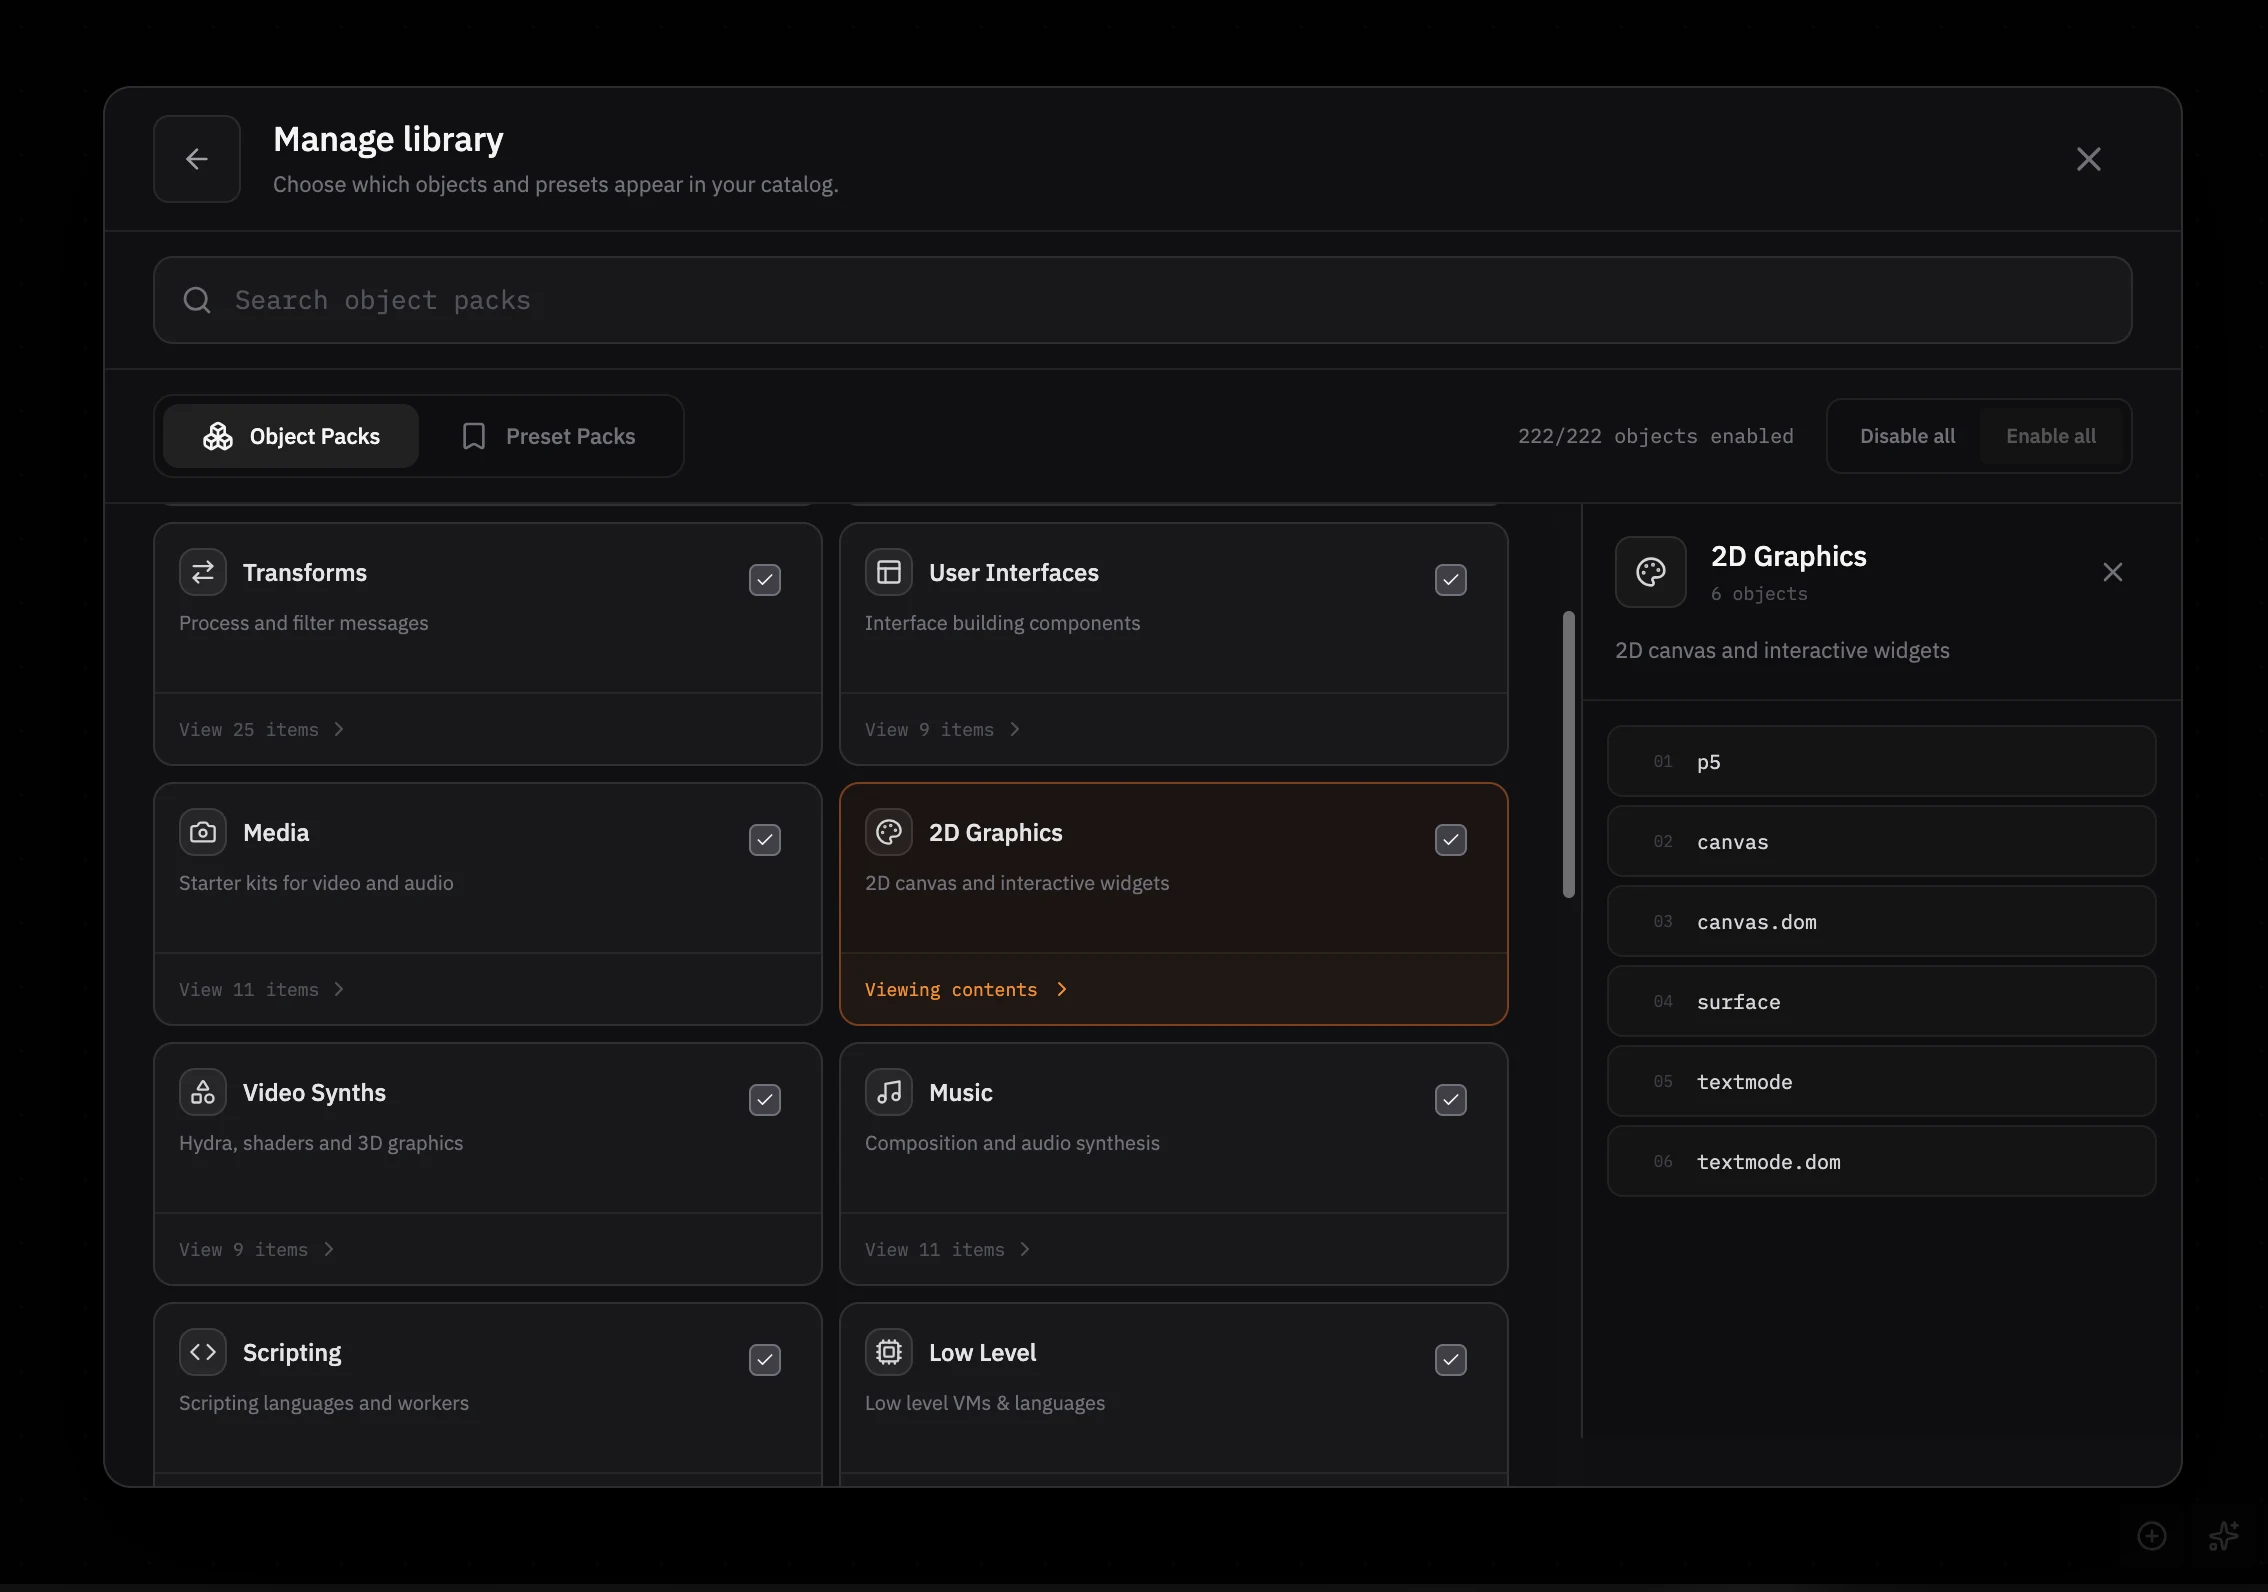
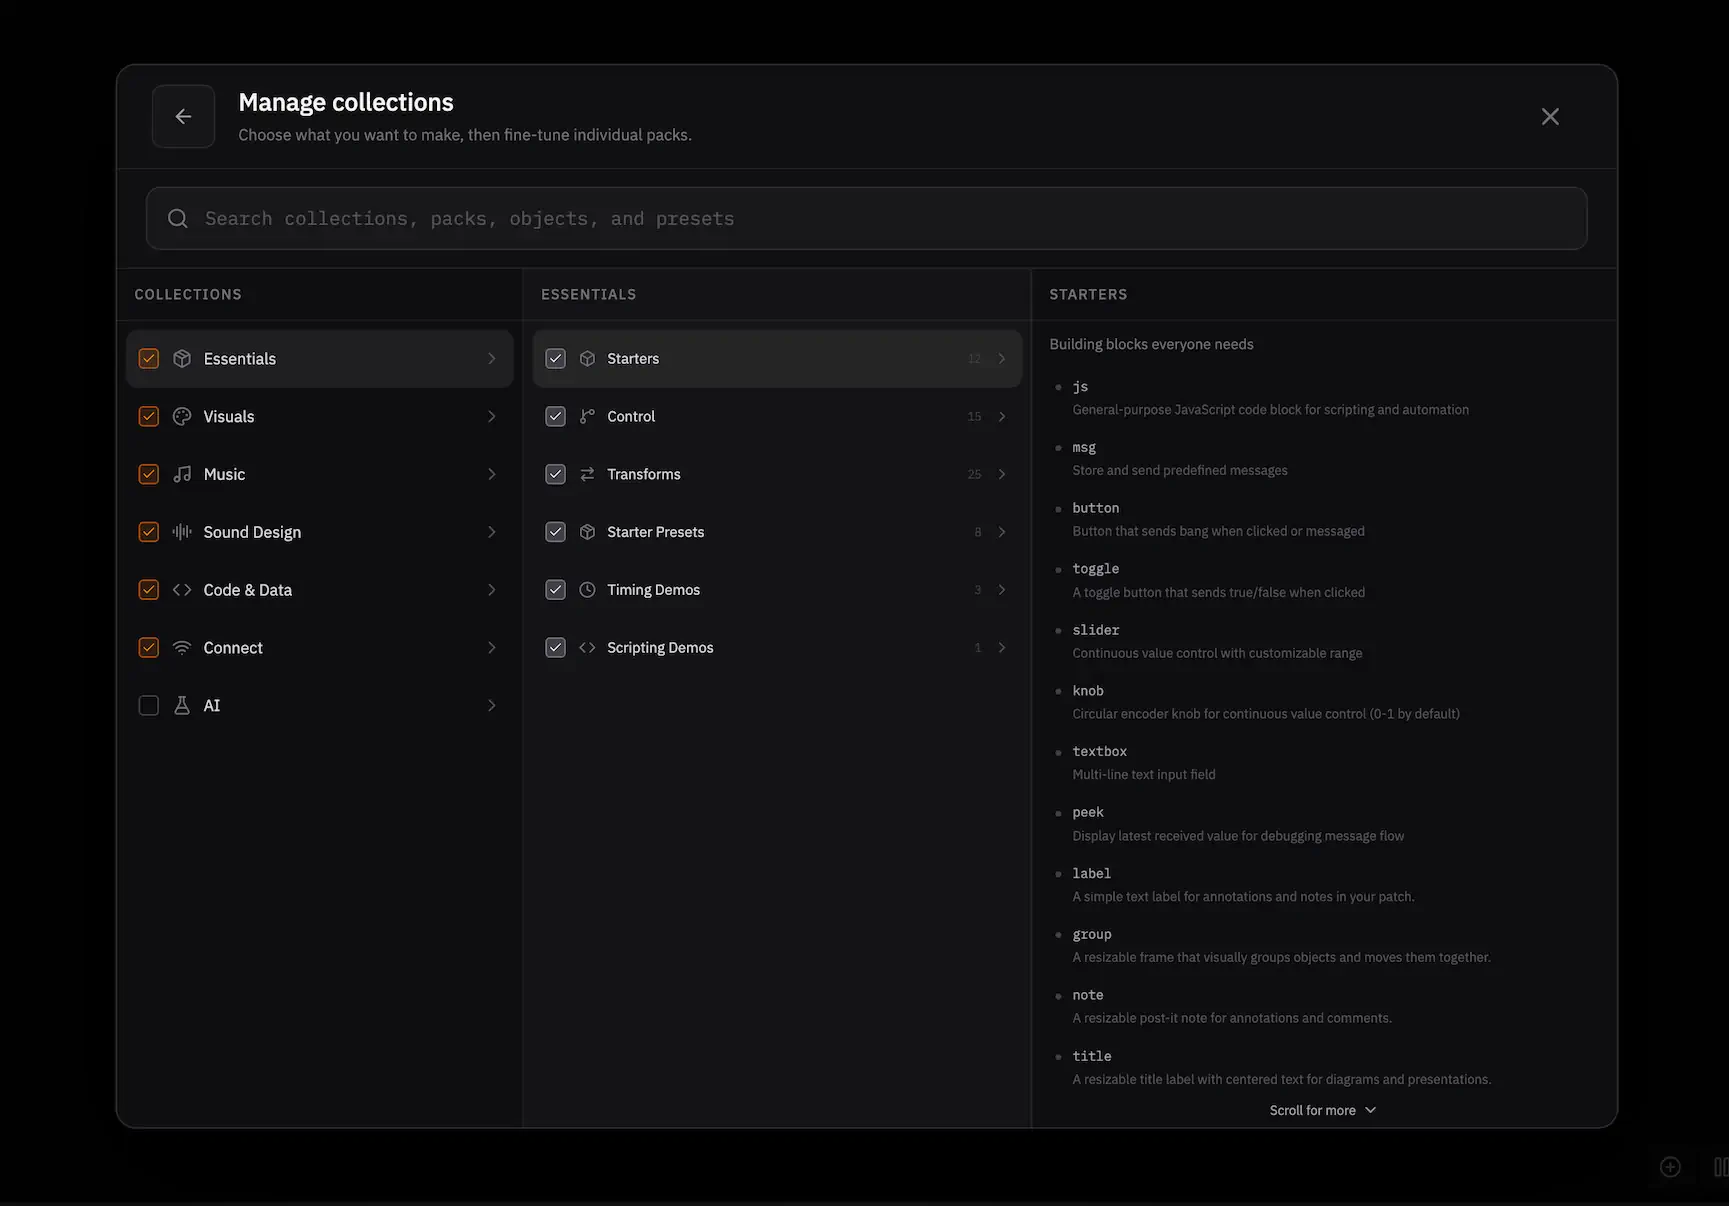
docs(packs): update screenshots for managing packs

diff --git a/ui/src/lib/docs/topic-titles-manifest.ts b/ui/src/lib/docs/topic-titles-manifest.ts
@@ -27,7 +27,7 @@ export const TOPIC_TITLES: Record<string, string> = {
   'js-integrations': 'JS Integrations',
   'js-modules': 'JS Modules',
   'manage-files': 'Files',
-  'manage-packs': 'Collections and Packs',
+  'manage-packs': 'Collections',
   'manage-presets': 'Presets',
   'manage-saves': 'Saves',
   'message-passing': 'Message Passing',

diff --git a/ui/static/content/topics/manage-packs.md b/ui/static/content/topics/manage-packs.md
@@ -1,4 +1,4 @@
-# Collections and Packs
+# Collections
 
 Patchies keeps your object browser and quick-insert menu focused. Instead of
 starting with every tool, choose a **collection** for the kind of patch you
@@ -13,8 +13,6 @@ preset pack before you start.
 **Sound Design** is for low-level signals, effects, routing, and audio-reactive
 patches.
 
-![Manage library panel](/content/images/object-browser-packs.webp)
-
 ## First-time setup
 
 The first time you open the object browser with `Ctrl/Cmd + O`, Patchies asks
@@ -23,6 +21,8 @@ what you want to make. Select one or more collections, then select
 
 Select **Skip for now** to start with Essentials only. You can add collections
 at any time.
+
+![Manage collections onboarding](/content/images/object-browser-packs-onboarding.webp)
 
 ## Manage collections
 
@@ -36,6 +36,8 @@ list of included objects or presets.
 - Select an individual pack to fine-tune what appears in your catalog.
 - A mixed checkbox means you manually changed one or more packs in that
   collection.
+
+![Manage collections panel](/content/images/object-browser-packs.webp)
 
 Some collections list **Included from …** groups. These are the specific
 objects required by presets in that collection, named with the pack they come
